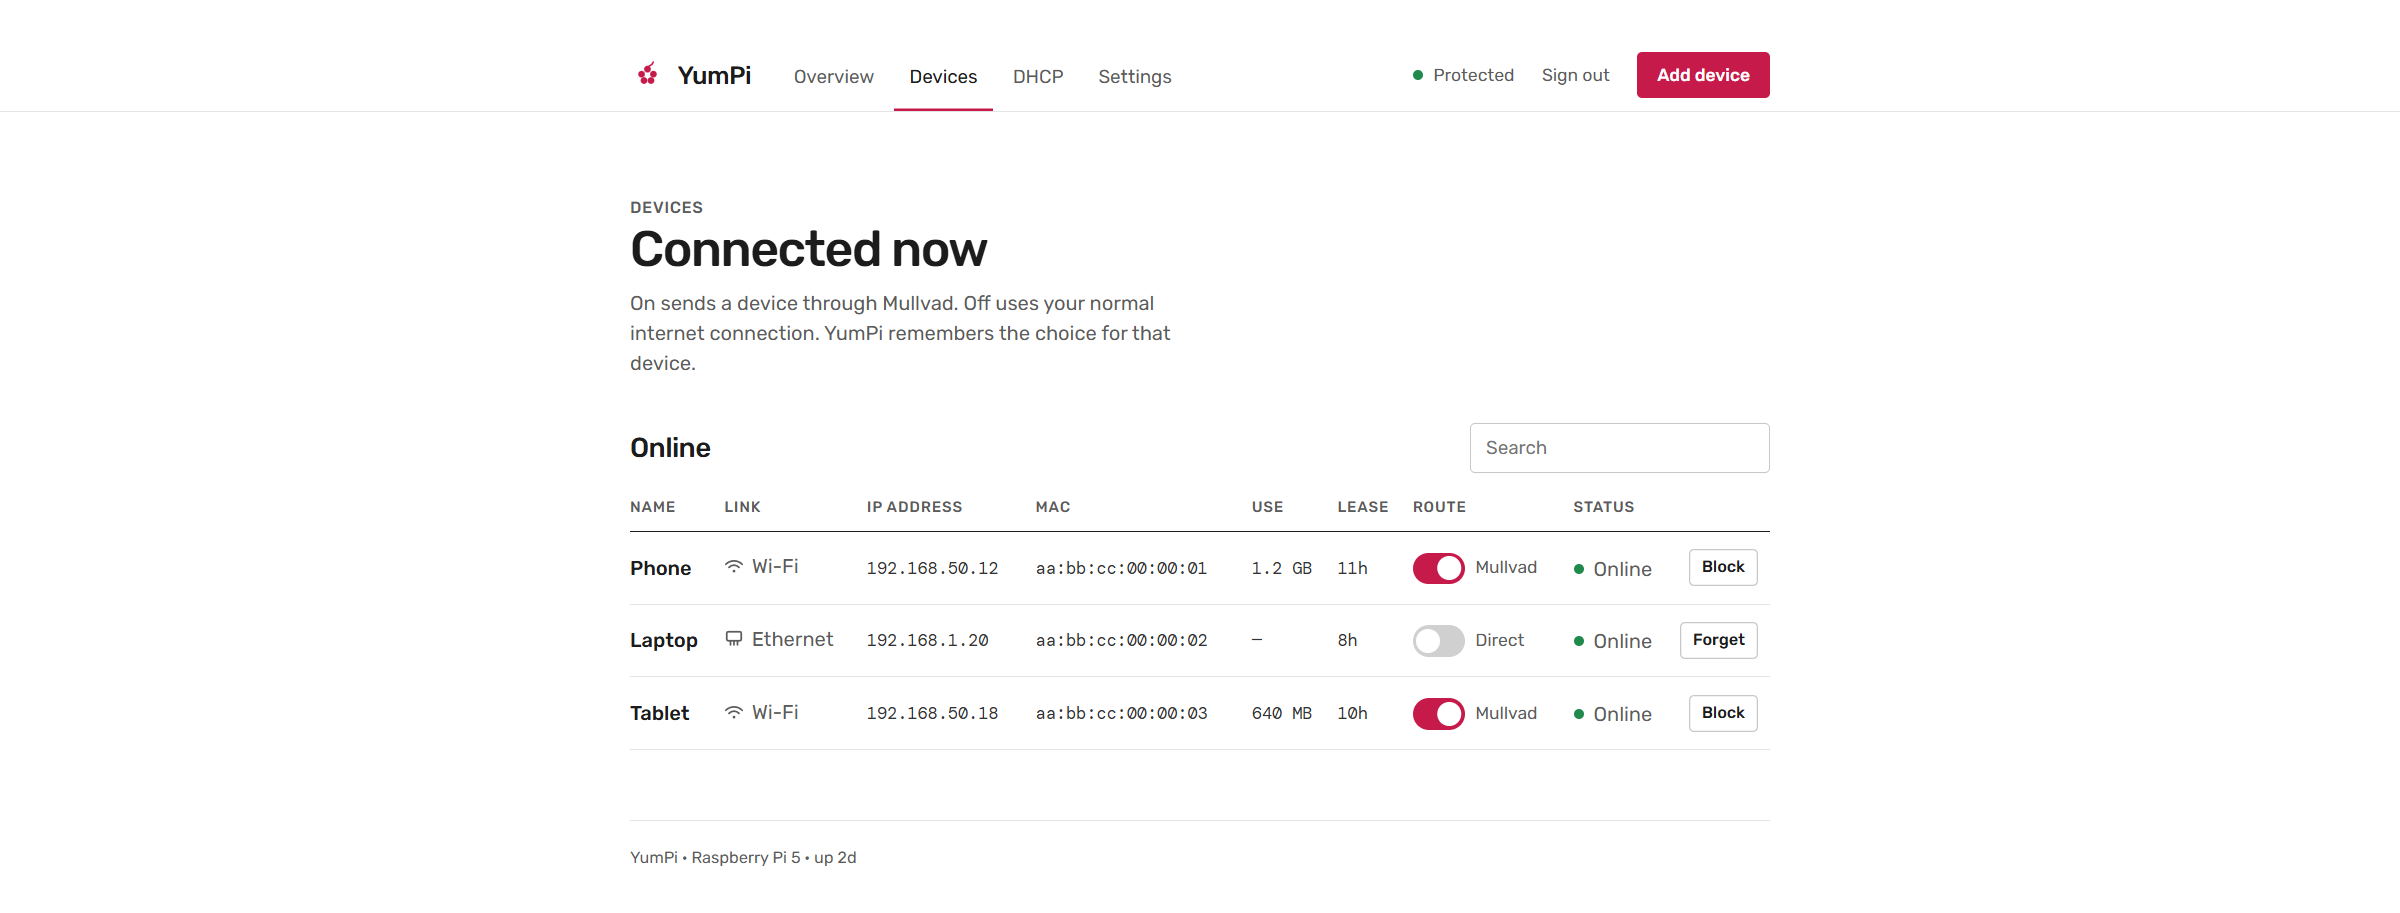
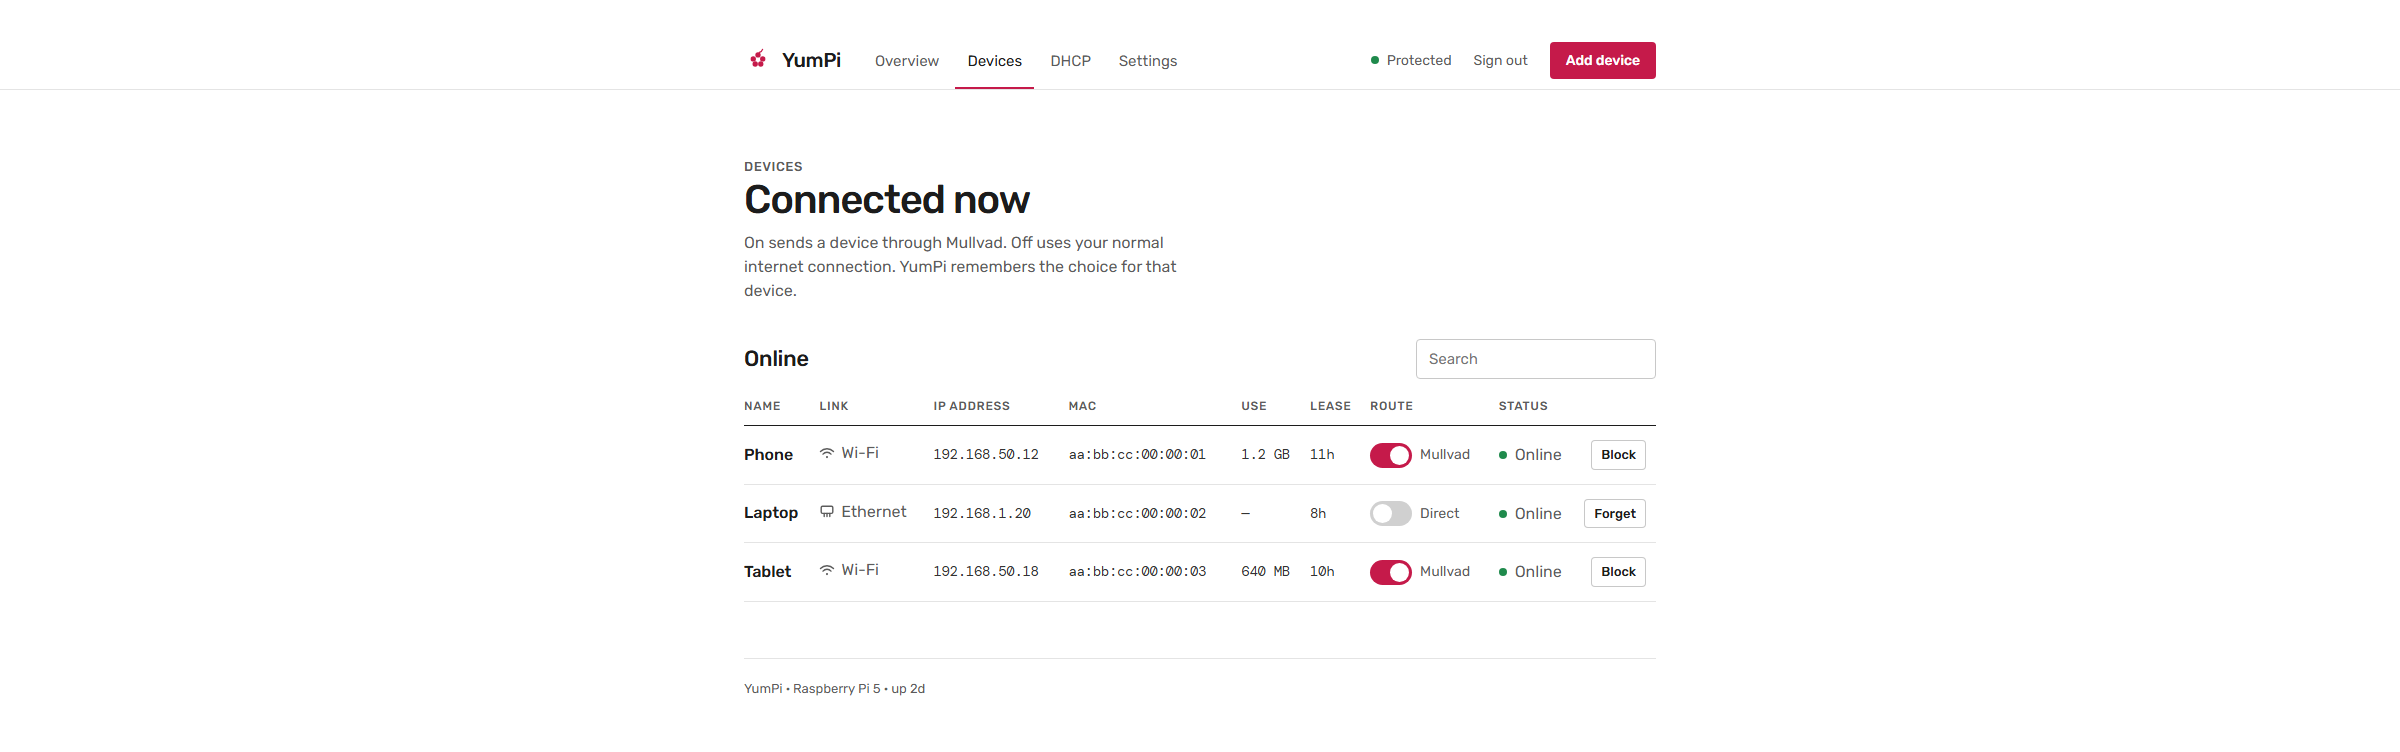
Let the dashboard password be changed in Settings.
Settings checks the current password, stores a new hash, and keeps this session signed in. The README pictures show the pause switch, Mullvad's cities, and that password form.

diff --git a/web/index.html b/web/index.html
@@ -43,7 +43,7 @@
     <div class="head">
       <p class="kicker">Dashboard</p>
       <h1>Sign in</h1>
-      <p>Use the password that was printed when YumPi was installed.</p>
+      <p>Use the dashboard password.</p>
       <form id="login-form" class="stack">
         <label class="field"><span>Password</span><input name="password" type="password" autocomplete="current-password" required></label>
         <div><button class="btn" type="submit">Continue</button></div>
@@ -191,6 +191,18 @@
           <label class="field"><span>Password</span><input name="passphrase" type="password" minlength="8" maxlength="63" autocomplete="new-password" placeholder="At least 8 characters"></label>
           <div><button class="btn" type="submit">Save guest Wi-Fi</button></div>
           <p class="err" id="guest-err" role="alert"></p>
+        </form>
+      </div>
+      <div class="dhcp">
+        <div>
+          <h2>Dashboard</h2>
+          <p class="copy">This password signs in to YumPi. It does not change the Wi-Fi password.</p>
+        </div>
+        <form id="password-form" class="stack">
+          <label class="field"><span>Current password</span><input name="current" type="password" autocomplete="current-password" required></label>
+          <label class="field"><span>New password</span><input name="next" type="password" minlength="12" maxlength="72" autocomplete="new-password" required></label>
+          <div><button class="btn" type="submit">Change password</button></div>
+          <p class="err" id="password-err" role="alert"></p>
         </form>
       </div>
     </div>

diff --git a/web/app.js b/web/app.js
@@ -404,6 +404,19 @@ $("guest-form").addEventListener("submit", async (ev) => {
   }
 });
 
+$("password-form").addEventListener("submit", async (ev) => {
+  ev.preventDefault();
+  $("password-err").textContent = "";
+  const f = new FormData(ev.target);
+  try {
+    await api("/api/password", { current: f.get("current"), next: f.get("next") });
+    ev.target.reset();
+    flash("Dashboard password changed");
+  } catch (err) {
+    $("password-err").textContent = err.message;
+  }
+});
+
 $("wifi-form").addEventListener("submit", async (ev) => {
   ev.preventDefault();
   $("wifi-err").textContent = "";

diff --git a/internal/api/server_test.go b/internal/api/server_test.go
@@ -134,6 +134,83 @@ func TestLoginCookieAndDevicePolicy(t *testing.T) {
 	}
 }
 
+func TestPasswordChangeKeepsSession(t *testing.T) {
+	d, _ := newDaemon(t)
+	srv := httptest.NewServer(New(d, web.FS, nil))
+	defer srv.Close()
+	login, err := http.Post(srv.URL+"/api/login", "application/json", strings.NewReader(`{"password":"correct-password"}`))
+	if err != nil {
+		t.Fatal(err)
+	}
+	c := login.Cookies()[0]
+	login.Body.Close()
+
+	req, _ := http.NewRequest(http.MethodPost, srv.URL+"/api/password", strings.NewReader(`{"current":"nope","next":"a-new-password-1"}`))
+	req.Header.Set("Content-Type", "application/json")
+	req.AddCookie(c)
+	res, err := http.DefaultClient.Do(req)
+	if err != nil {
+		t.Fatal(err)
+	}
+	if res.StatusCode != http.StatusBadRequest {
+		t.Fatalf("wrong current %d", res.StatusCode)
+	}
+	res.Body.Close()
+
+	req, _ = http.NewRequest(http.MethodPost, srv.URL+"/api/password", strings.NewReader(`{"current":"correct-password","next":"short"}`))
+	req.Header.Set("Content-Type", "application/json")
+	req.AddCookie(c)
+	res, err = http.DefaultClient.Do(req)
+	if err != nil {
+		t.Fatal(err)
+	}
+	if res.StatusCode != http.StatusBadRequest {
+		t.Fatalf("short %d", res.StatusCode)
+	}
+	res.Body.Close()
+
+	req, _ = http.NewRequest(http.MethodPost, srv.URL+"/api/password", strings.NewReader(`{"current":"correct-password","next":"a-new-password-1"}`))
+	req.Header.Set("Content-Type", "application/json")
+	req.AddCookie(c)
+	res, err = http.DefaultClient.Do(req)
+	if err != nil {
+		t.Fatal(err)
+	}
+	if res.StatusCode != http.StatusOK {
+		body, _ := io.ReadAll(res.Body)
+		t.Fatalf("change %d %s", res.StatusCode, body)
+	}
+	res.Body.Close()
+
+	req, _ = http.NewRequest(http.MethodGet, srv.URL+"/api/status", nil)
+	req.AddCookie(c)
+	res, err = http.DefaultClient.Do(req)
+	if err != nil {
+		t.Fatal(err)
+	}
+	if res.StatusCode != http.StatusOK {
+		t.Fatalf("kept session %d", res.StatusCode)
+	}
+	res.Body.Close()
+
+	old, err := http.Post(srv.URL+"/api/login", "application/json", strings.NewReader(`{"password":"correct-password"}`))
+	if err != nil {
+		t.Fatal(err)
+	}
+	if old.StatusCode != http.StatusUnauthorized {
+		t.Fatalf("old password %d", old.StatusCode)
+	}
+	old.Body.Close()
+	next, err := http.Post(srv.URL+"/api/login", "application/json", strings.NewReader(`{"password":"a-new-password-1"}`))
+	if err != nil {
+		t.Fatal(err)
+	}
+	if next.StatusCode != http.StatusOK {
+		t.Fatalf("new password %d", next.StatusCode)
+	}
+	next.Body.Close()
+}
+
 func TestPauseRoundTrip(t *testing.T) {
 	d, _ := newDaemon(t)
 	if err := d.SetPause(context.Background(), true); err != nil {

diff --git a/internal/api/server.go b/internal/api/server.go
@@ -33,6 +33,7 @@ type Service interface {
 	DeleteReservation(ctx context.Context, mac string) error
 	SetDHCP(ctx context.Context, enabled bool) error
 	SetPause(ctx context.Context, enabled bool) error
+	SetPassword(ctx context.Context, remote, current, next, keep string) error
 	MullvadAction(ctx context.Context, action, location string) error
 	SetWiFi(ctx context.Context, ssid, passphrase string) error
 	SetGuest(ctx context.Context, enabled bool, ssid, passphrase string) error
@@ -61,6 +62,7 @@ func New(svc Service, assets fs.FS, log *slog.Logger) http.Handler {
 	mux.Handle("POST /api/reservation/delete", s.auth(http.HandlerFunc(s.deleteReservation)))
 	mux.Handle("POST /api/dhcp", s.auth(http.HandlerFunc(s.dhcp)))
 	mux.Handle("POST /api/pause", s.auth(http.HandlerFunc(s.pause)))
+	mux.Handle("POST /api/password", s.auth(http.HandlerFunc(s.password)))
 	mux.Handle("POST /api/mullvad", s.auth(http.HandlerFunc(s.mullvad)))
 	mux.Handle("POST /api/wifi", s.auth(http.HandlerFunc(s.wifi)))
 	mux.Handle("POST /api/guest", s.auth(http.HandlerFunc(s.guest)))
@@ -185,6 +187,27 @@ func (s *server) dhcp(w http.ResponseWriter, r *http.Request) {
 		return
 	}
 	s.writeCall(w, r, s.svc.SetDHCP(r.Context(), body.Enabled))
+}
+
+func (s *server) password(w http.ResponseWriter, r *http.Request) {
+	var body struct {
+		Current string `json:"current"`
+		Next    string `json:"next"`
+	}
+	if err := readJSON(w, r, &body); err != nil {
+		writeErr(w, http.StatusBadRequest, "Send the current password and a new one.")
+		return
+	}
+	keep := ""
+	if c, err := r.Cookie(cookieName); err == nil {
+		keep = c.Value
+	}
+	err := s.svc.SetPassword(r.Context(), clientIP(r), body.Current, body.Next, keep)
+	if errors.Is(err, auth.ErrLimited) {
+		writeErr(w, http.StatusTooManyRequests, "Too many attempts. Wait a few minutes.")
+		return
+	}
+	s.writeCall(w, r, err)
 }
 
 func (s *server) pause(w http.ResponseWriter, r *http.Request) {

diff --git a/internal/auth/auth.go b/internal/auth/auth.go
@@ -53,6 +53,38 @@ func HashPassword(password string) (string, error) {
 	return string(b), nil
 }
 
+// HashIfCurrent checks the current password and returns a hash of the next one.
+// It does not install that hash. A wrong current password counts toward the login limit.
+func (m *Manager) HashIfCurrent(remote, current, next string) (string, error) {
+	m.mu.Lock()
+	now := m.now()
+	if m.limited(remote, now) {
+		m.mu.Unlock()
+		return "", ErrLimited
+	}
+	have := append([]byte(nil), m.hash...)
+	m.mu.Unlock()
+	if bcrypt.CompareHashAndPassword(have, []byte(current)) != nil {
+		m.mu.Lock()
+		m.failures[remote] = append(m.recent(remote, m.now()), m.now())
+		m.mu.Unlock()
+		return "", ErrDenied
+	}
+	return HashPassword(next)
+}
+
+// UseHash installs a hash from HashIfCurrent and drops every session except keep.
+func (m *Manager) UseHash(hash, keep string) {
+	m.mu.Lock()
+	defer m.mu.Unlock()
+	m.hash = []byte(hash)
+	for token := range m.sessions {
+		if token != keep {
+			delete(m.sessions, token)
+		}
+	}
+}
+
 // Login checks the password and returns a new session token.
 func (m *Manager) Login(remote, password string) (string, error) {
 	m.mu.Lock()

diff --git a/internal/auth/auth_test.go b/internal/auth/auth_test.go
@@ -42,3 +42,39 @@ func TestLoginSessionAndLimit(t *testing.T) {
 		t.Fatal(err)
 	}
 }
+
+func TestChangePasswordKeepsCurrentSession(t *testing.T) {
+	hash, err := bcrypt.GenerateFromPassword([]byte("correct-password"), bcrypt.MinCost)
+	if err != nil {
+		t.Fatal(err)
+	}
+	m, err := New(string(hash))
+	if err != nil {
+		t.Fatal(err)
+	}
+	keep, err := m.Login("10.0.0.8", "correct-password")
+	if err != nil {
+		t.Fatal(err)
+	}
+	other, err := m.Login("10.0.0.9", "correct-password")
+	if err != nil {
+		t.Fatal(err)
+	}
+	if _, err := m.HashIfCurrent("10.0.0.8", "wrong-password", "a-new-password-1"); err != ErrDenied {
+		t.Fatalf("got %v", err)
+	}
+	next, err := m.HashIfCurrent("10.0.0.8", "correct-password", "a-new-password-1")
+	if err != nil {
+		t.Fatal(err)
+	}
+	m.UseHash(next, keep)
+	if !m.Valid(keep) || m.Valid(other) {
+		t.Fatal("session set is wrong")
+	}
+	if _, err := m.Login("10.0.0.8", "correct-password"); err != ErrDenied {
+		t.Fatal("old password still works")
+	}
+	if _, err := m.Login("10.0.0.8", "a-new-password-1"); err != nil {
+		t.Fatal(err)
+	}
+}

diff --git a/internal/daemon/daemon.go b/internal/daemon/daemon.go
@@ -2,6 +2,7 @@ package daemon
 
 import (
 	"context"
+	"errors"
 	"log/slog"
 	"net/netip"
 	"os"
@@ -358,6 +359,32 @@ func (d *Daemon) SetDHCP(ctx context.Context, enabled bool) error {
 		return err
 	}
 	d.super.SetDHCP(enabled)
+	return nil
+}
+
+// SetPassword checks the current dashboard password and stores a new one.
+// The session in keep stays signed in. Other sessions are signed out.
+func (d *Daemon) SetPassword(ctx context.Context, remote, current, next, keep string) error {
+	if len(next) < 12 || len(next) > 72 {
+		return invalid("Use 12 to 72 characters.")
+	}
+	hash, err := d.auth.HashIfCurrent(remote, current, next)
+	if errors.Is(err, auth.ErrDenied) {
+		return invalid("Current password is incorrect.")
+	}
+	if err != nil {
+		return err
+	}
+	d.mu.Lock()
+	cfg := d.cfg
+	cfg.Auth.PasswordHash = hash
+	if err := config.Save(d.path, cfg); err != nil {
+		d.mu.Unlock()
+		return err
+	}
+	d.cfg = cfg
+	d.mu.Unlock()
+	d.auth.UseHash(hash, keep)
 	return nil
 }
 

diff --git a/README.md b/README.md
@@ -14,11 +14,11 @@ The control plane is one Go program in a container. The Pi keeps Docker, the Mul
 
 The dashboard is on the Pi at `https://<pi>:8443`. These pictures use example devices.
 
-![Overview: who is online, and how many are using Mullvad](docs/overview.png)
+![Overview: who is online, and that internet pauses if Mullvad drops](docs/overview.png)
 
 ![Devices: Wi-Fi or Ethernet, and a switch for the direct path](docs/devices.png)
 
-![Settings: the country and city the tunnel uses](docs/settings.png)
+![Settings: the tunnel, Wi-Fi, guest access, and the dashboard password](docs/settings.png)
 
 ## What it does
 
@@ -27,7 +27,7 @@ The dashboard is on the Pi at `https://<pi>:8443`. These pictures use example de
 - A device set to direct keeps that choice by its MAC, and its DNS goes to `1.1.1.1`.
 - If the tunnel is down, clients use the direct path. A setting can instead pause devices that are set to Mullvad until the tunnel is back. A device set to direct keeps that path.
 - Guest Wi-Fi can be turned on later. Guests stay on Mullvad and cannot reach the LAN or the dashboard.
-- The dashboard is HTTPS only, at `https://<pi>:8443`. Trust the Pi’s certificate once. Do not forward that port from the internet.
+- The dashboard is HTTPS only, at `https://<pi>:8443`. Trust the Pi’s certificate once. Do not forward that port from the internet. The sign-in password can be changed in Settings.
 
 ## Install
 
